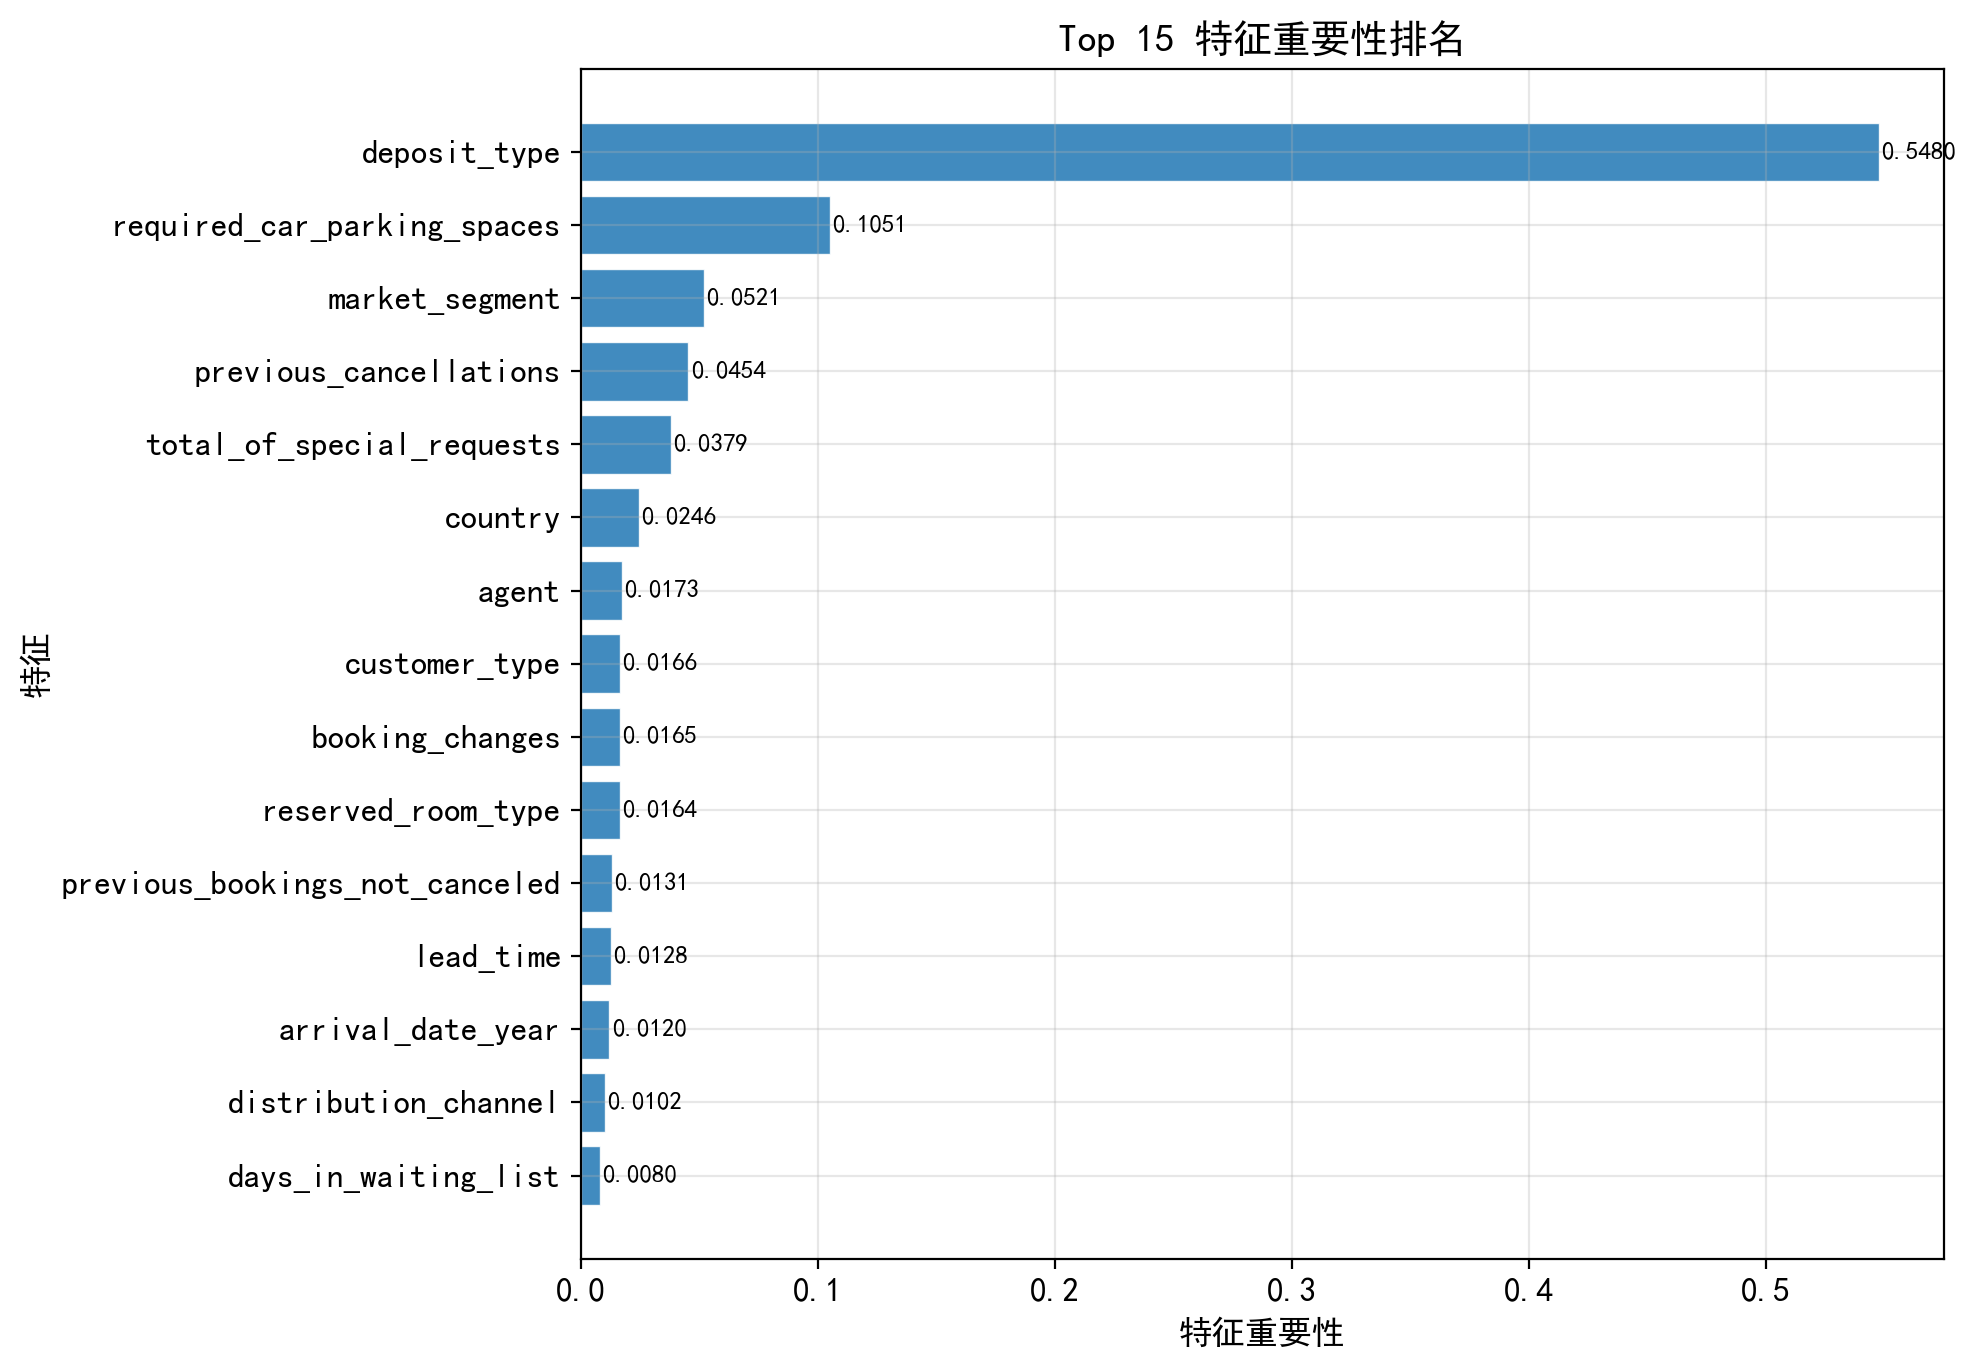
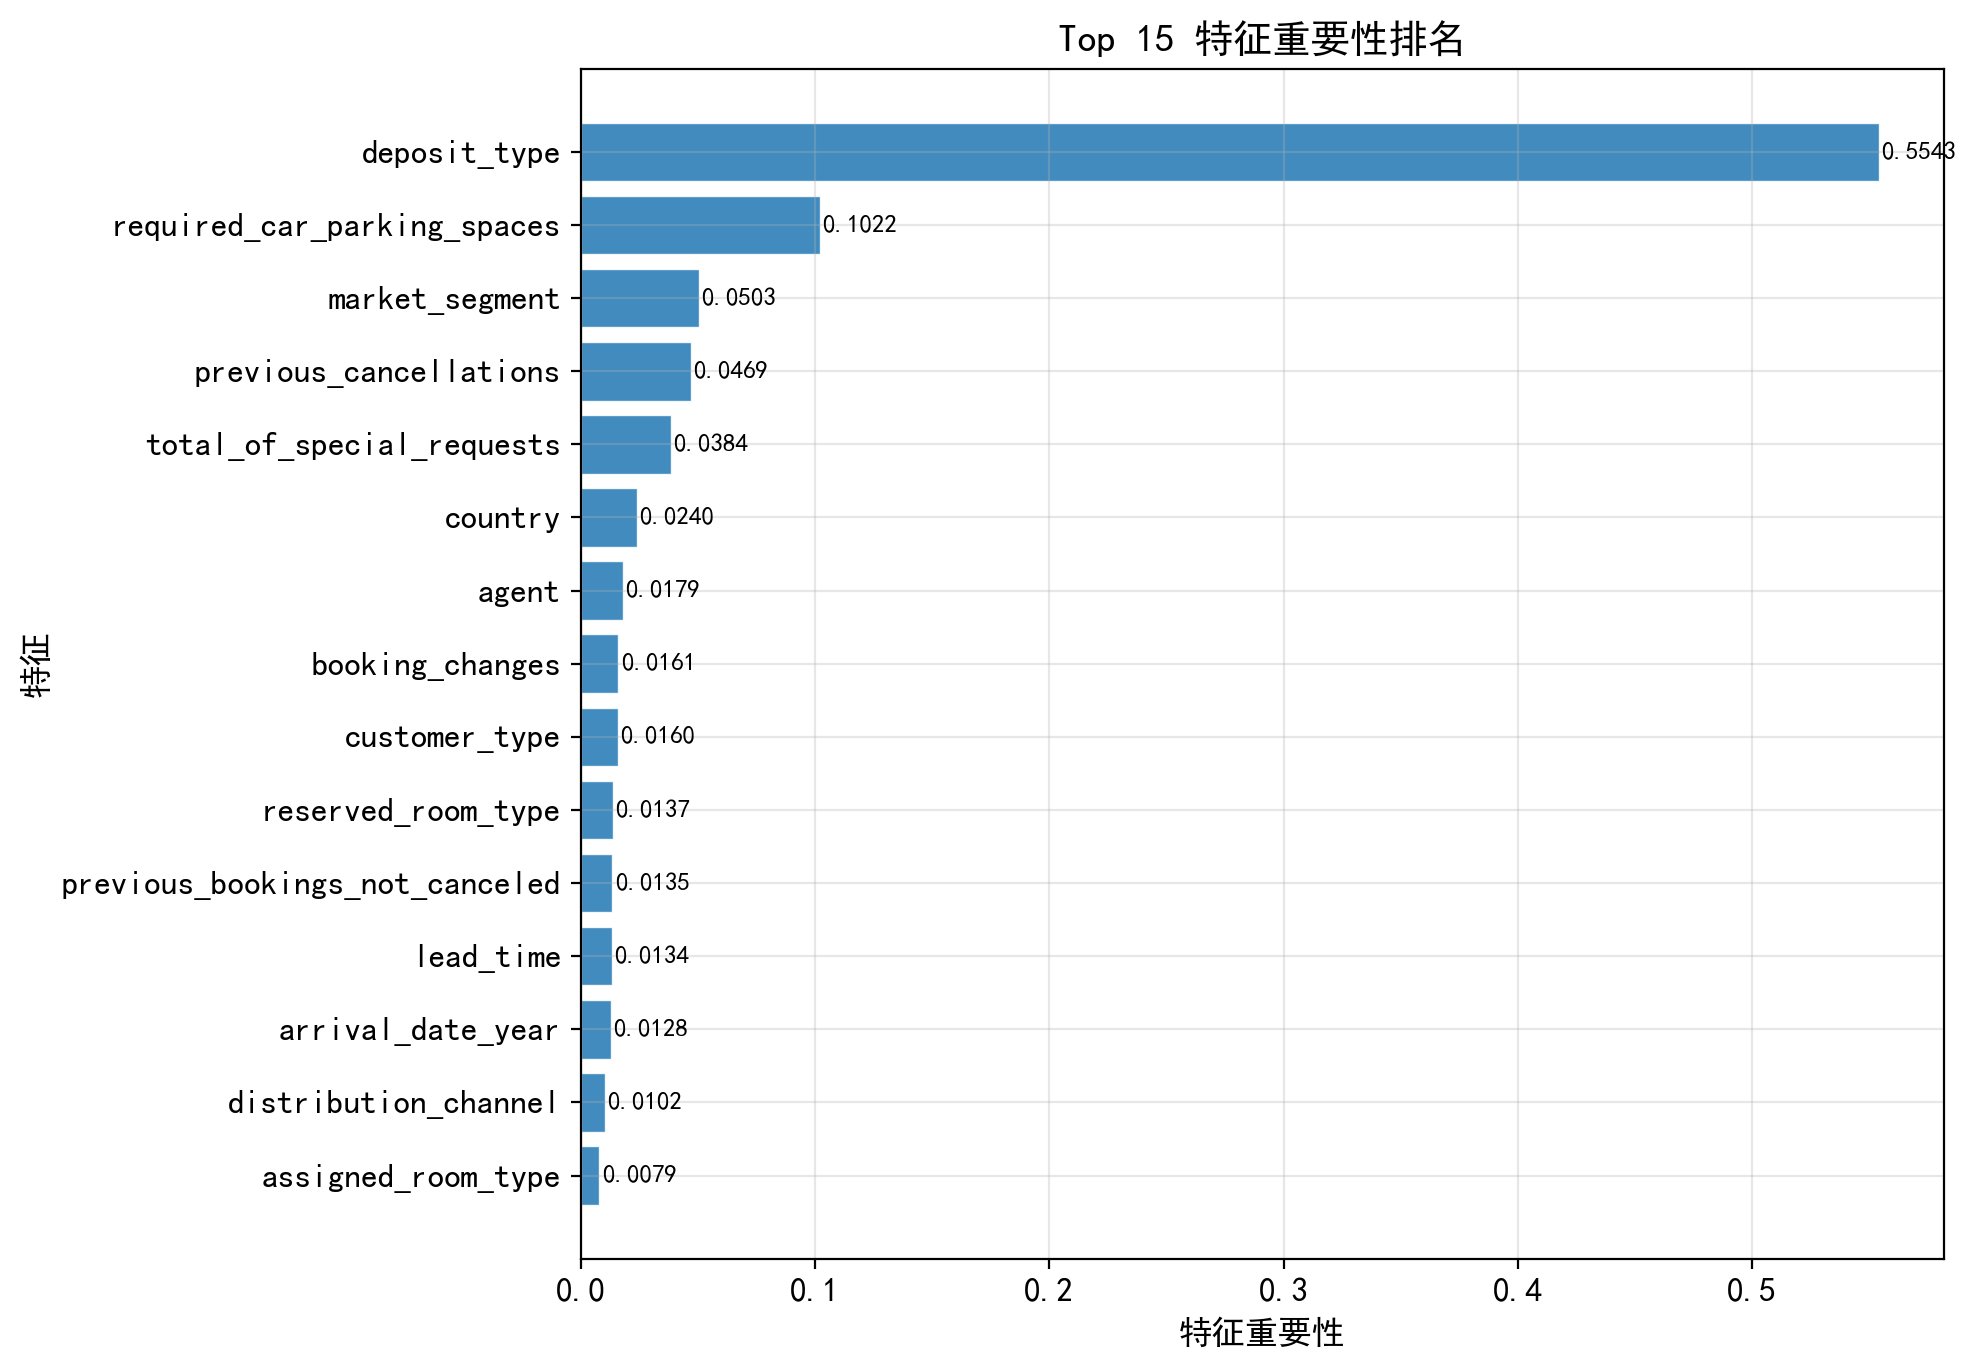
feat: 添加SHAP特征可解释性分析

diff --git a/templates/model.html b/templates/model.html
@@ -187,8 +187,8 @@
                 <tbody>
                     <tr class="table-success">
                         <td><strong>XGBoost (优化模型)</strong></td>
-                        <td><strong>0.8818</strong></td>
-                        <td><strong>0.9543</strong></td>
+                        <td><strong>0.8808</strong></td>
+                        <td><strong>0.9546</strong></td>
                         <td>梯度提升树</td>
                     </tr>
                     <tr class="table-info">
@@ -229,6 +229,45 @@
                     <li>端到端学习，无需手动特征工程</li>
                     <li>适合大规模数据场景</li>
                 </ul>
+            </div>
+        </div>
+    </div>
+</div>
+
+<!-- SHAP 可解释性分析 -->
+<h4 class="mb-3 mt-5 page-header"><i class="bi bi-search-heart"></i> SHAP 可解释性分析</h4>
+
+<div class="card mb-4">
+    <div class="card-header bg-dark text-white">
+        <h5 class="mb-0"><i class="bi bi-info-circle"></i> 关于 SHAP</h5>
+    </div>
+    <div class="card-body">
+        <p>SHAP (SHapley Additive exPlanations) 基于博弈论中的 Shapley 值，量化每个特征对预测结果的贡献度。正值表示该特征值推动模型预测为取消，负值表示推动预测为不取消。颜色表示特征值的高低（红色=高，蓝色=低）。</p>
+    </div>
+</div>
+
+<div class="row g-3 mb-4">
+    <div class="col-md-8">
+        <div class="chart-container">
+            <h6 class="text-center mb-3 text-muted">SHAP Summary Plot（样本量: 500）</h6>
+            <img src="/static/images/shap_summary.png" class="img-fluid" alt="SHAP Summary Plot">
+        </div>
+    </div>
+    <div class="col-md-4">
+        <div class="card border-info h-100">
+            <div class="card-header bg-info text-white">
+                <h5 class="mb-0"><i class="bi bi-star"></i> SHAP Top 5 重要特征</h5>
+            </div>
+            <div class="card-body">
+                <ol class="mb-0">
+                    <li><strong>deposit_type</strong> — 押金类型</li>
+                    <li><strong>country</strong> — 客户所在国家</li>
+                    <li><strong>required_car_parking_spaces</strong> — 停车位需求</li>
+                    <li><strong>agent</strong> — 旅行社编号</li>
+                    <li><strong>total_of_special_requests</strong> — 特殊请求数</li>
+                </ol>
+                <hr>
+                <p class="small text-muted mb-0">与 XGBoost 内置特征重要性对比：deposit_type 在两个方法中均排第一，确认其作为最强预测因子的地位。</p>
             </div>
         </div>
     </div>

diff --git a/src/shap_analyzer.py b/src/shap_analyzer.py
@@ -1,0 +1,73 @@
+import pandas as pd
+import numpy as np
+import shap
+import matplotlib
+matplotlib.use('Agg')
+import matplotlib.pyplot as plt
+import joblib
+import os
+import warnings
+import json
+warnings.filterwarnings('ignore')
+
+def analyze_shap(sample_size=500, save_path='static/images/shap_summary.png'):
+    os.makedirs('static/images', exist_ok=True)
+
+    plt.rcParams['font.sans-serif'] = ['SimHei', 'Microsoft YaHei', 'Arial Unicode MS']
+    plt.rcParams['axes.unicode_minus'] = False
+
+    model = joblib.load('models/xgboost_model.pkl')
+    X_test = pd.read_csv('data/processed/X_test.csv')
+    string_cols = X_test.select_dtypes(include=['object']).columns.tolist()
+    X_test = X_test.drop(columns=string_cols)
+
+    if sample_size and sample_size < len(X_test):
+        X_sample = X_test.sample(n=sample_size, random_state=42)
+    else:
+        X_sample = X_test
+
+    print(f'SHAP 样本量: {len(X_sample)}')
+
+    booster = model.get_booster()
+    config = json.loads(booster.save_config())
+    if 'learner' in config and 'learner_model_param' in config['learner']:
+        imp = config['learner']['learner_model_param']
+        if isinstance(imp.get('base_score'), str) and '[' in imp['base_score']:
+            imp['base_score'] = '0.5'
+            booster.load_config(json.dumps(config))
+            print('已修复 base_score 格式')
+
+    explainer = shap.TreeExplainer(model)
+    shap_values = explainer.shap_values(X_sample)
+
+    shap.summary_plot(
+        shap_values, X_sample,
+        feature_names=X_sample.columns.tolist(),
+        show=False, max_display=20
+    )
+
+    fig = plt.gcf()
+    fig.set_size_inches(12, 8)
+    fig.savefig(save_path, dpi=200, bbox_inches='tight')
+    plt.close()
+
+    abs_mean = np.abs(shap_values).mean(axis=0)
+    importance_df = pd.DataFrame({
+        '特征': X_sample.columns,
+        '平均绝对SHAP值': abs_mean
+    }).sort_values('平均绝对SHAP值', ascending=False)
+
+    print(f'\nSHAP 图已保存: {save_path}')
+    print(f'\n=== SHAP 分析 Top 15 特征重要性 ===')
+    for i, (_, row) in enumerate(importance_df.head(15).iterrows(), 1):
+        print(f'  {i:2d}. {row["特征"]:30s} {row["平均绝对SHAP值"]:.4f}')
+
+    top5 = importance_df.head(5)['特征'].tolist()
+    print(f'\n=== SHAP Top 5 重要特征 ===')
+    for i, f in enumerate(top5, 1):
+        print(f'  {i}. {f}')
+
+    return importance_df, shap_values, X_sample
+
+if __name__ == '__main__':
+    analyze_shap(sample_size=500)